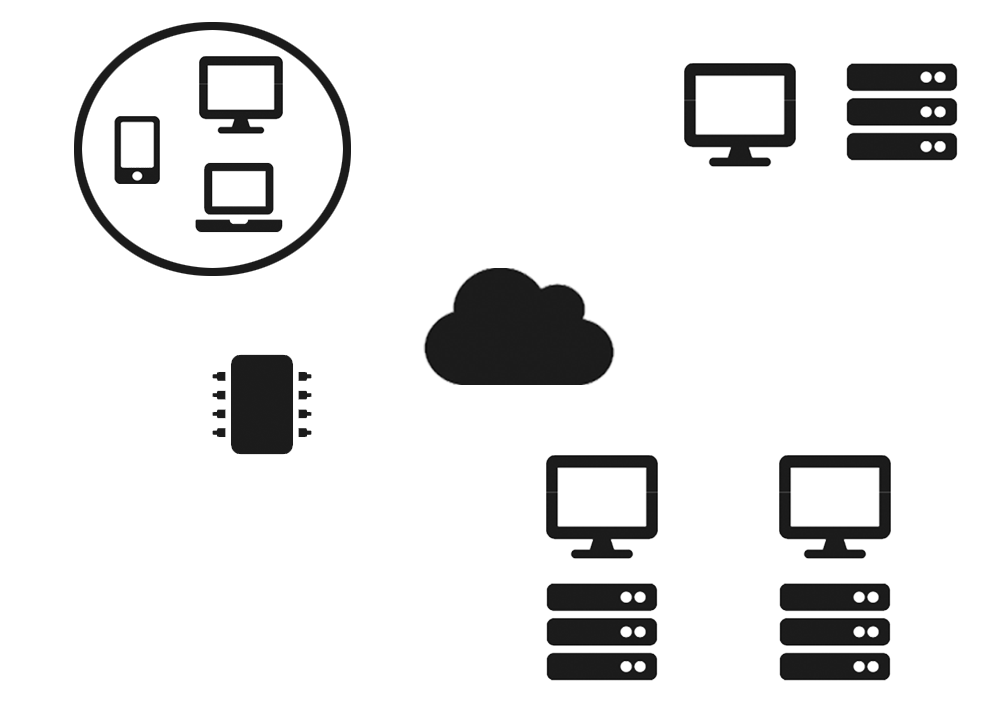
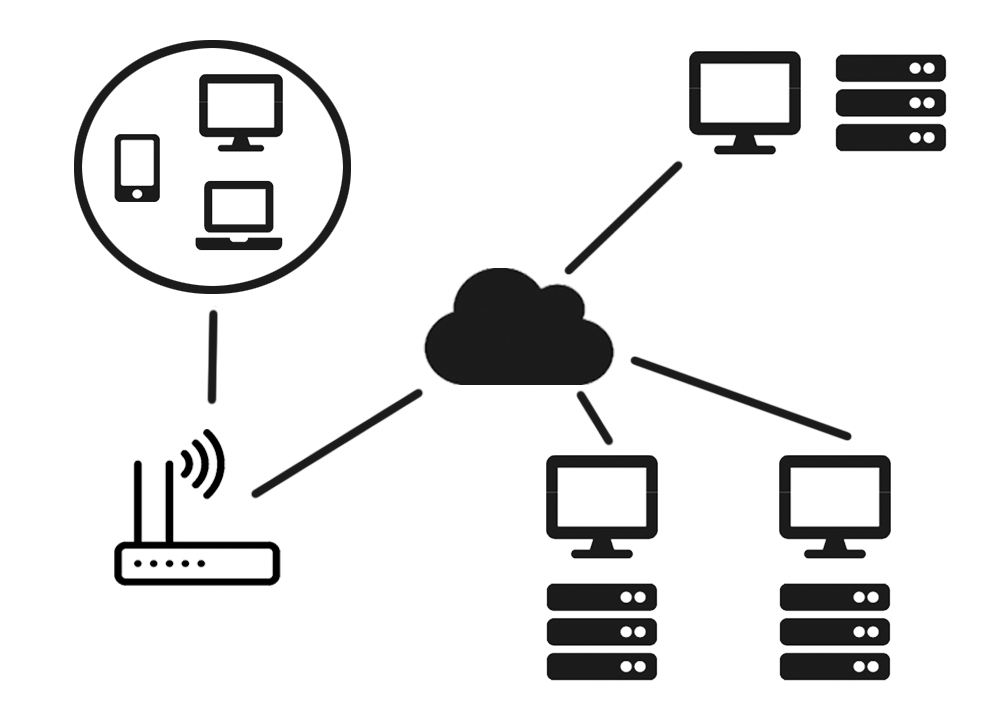
web architecture in sample.html

diff --git a/sample.html b/sample.html
@@ -33,12 +33,44 @@
             </h1>
         </div> -->
 
-        <div class="zoomViewport" style="width: 100%; height: 90%">
-            <div class="zoomContainer">
-                <div class="zoomTarget" style="width: 300px; height: 150px; margin: 10px; border: 1px solid red"></div>
-                <div class="zoomTarget">Target 2</div>
-            </div>
+        <div class="web-diagram"></div>
+
+        <div class="web-button" data-zoom="web-clients" style="position: fixed; top: 5vw; left: 26vw;"></div>
+        <div id="web-clients" class="zoomTarget web-component" data-targetsize=".98" style="position: fixed; top: 3.5vw; left: 16vw;">
+            Some Text
         </div>
-        <br>
+
+        <div class="web-button" data-zoom="internet" style="position: fixed; top: 14.5vw; left: 44.6vw;"></div>
+        <div id="internet" class="zoomTarget web-component" data-targetsize=".98" style="position: fixed; top: 14vw; left: 36.7vw;">
+            Some Text
+        </div>
+
+        <div class="web-button" data-zoom="web-servers" style="position: fixed; top: 29.5vw; left: 49.5vw;"></div>
+        <div class="web-button" data-zoom="web-servers" style="position: fixed; top: 29.5vw; left: 63.6vw;"></div>
+        <div id="web-servers" class="zoomTarget web-component" data-targetsize=".98" style="position: fixed; top: 29.5vw; left: 46.5vw;">
+            Some Text
+        </div>
+
+        <div class="web-button" data-zoom="dns-servers" style="position: fixed; top: 1vw; left: 62.3vw;"></div>
+        <div id="dns-servers" class="zoomTarget web-component" data-targetsize=".98" style="position: fixed; top: 1vw; left: 51.5vw;">
+            Some Text
+        </div>
+
     </div>
+
+    <script>
+        $(document).ready(function () {
+            $('#main').click(function () {
+                $('.web-component').css("visibility", "hidden");
+            });
+            $('.web-button').click(function (e) {
+                var zoomData = $(this).data('zoom');
+                $('#' + zoomData).zoomTo({
+                    targetsize: 0.98,
+                });
+                e.stopPropagation();
+                $('#' + zoomData).css("visibility", "visible");
+            });
+        });
+    </script>
 </body>

diff --git a/assets/css/style.css b/assets/css/style.css
@@ -1,0 +1,25 @@
+.web-diagram{
+    background: url(../images/web-diagram.png) no-repeat;
+    background-position: center;
+    background-size: contain;
+    margin: 0;
+    width: 100%;
+    height: 93%;
+    position: fixed;
+    z-index: -1;
+}
+
+.web-component{
+    width: 33vw;
+    height: 16vw;
+    padding: 10px;
+    background: aquamarine;
+    /* visibility: hidden; */
+}
+
+.web-button{
+    width: 13vw;
+    height: 13vw;
+    border: 1px solid black;
+    cursor: pointer;
+}
